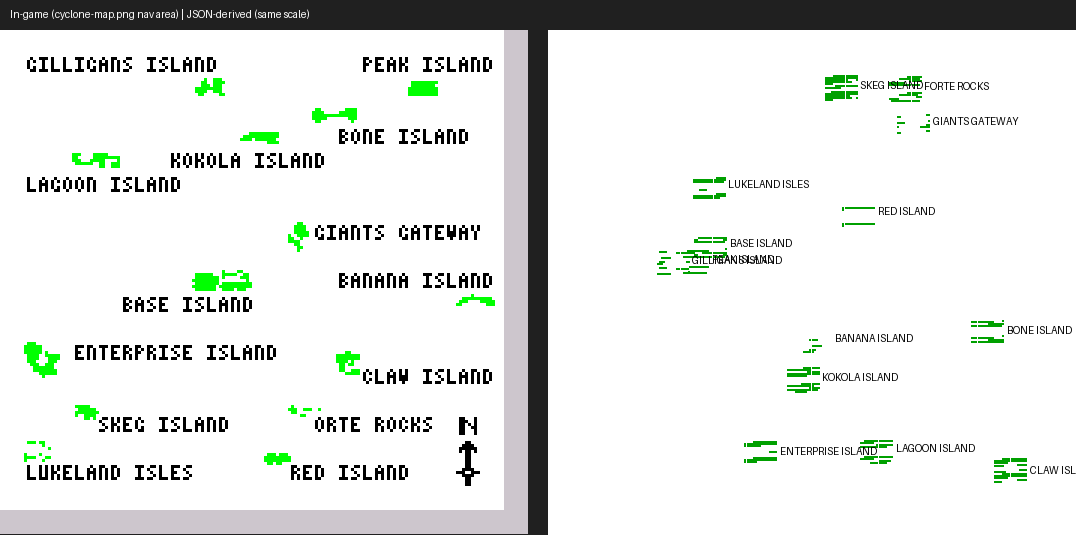
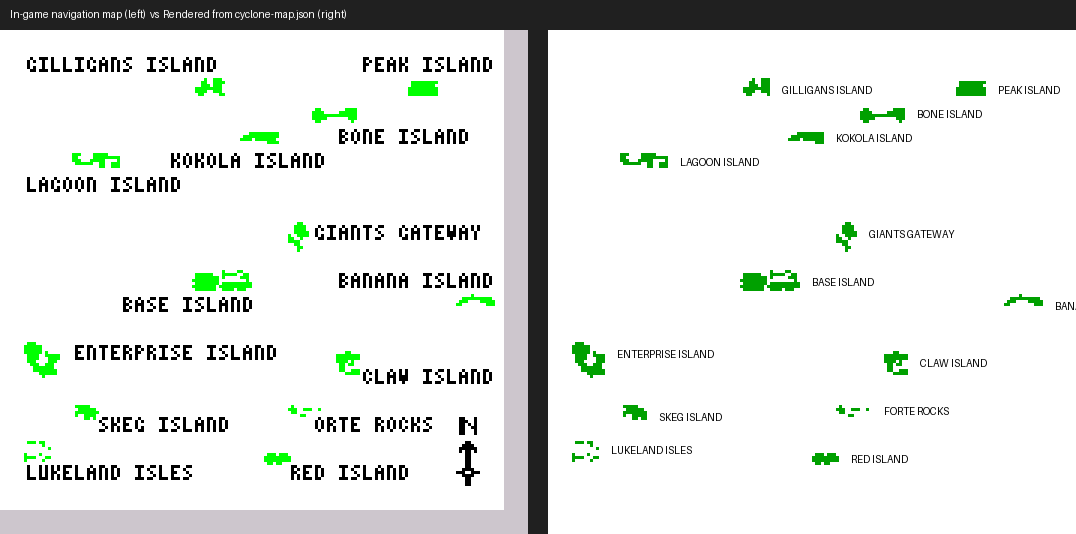
Decode the navigation-map renderer at $8D5D
The nav-map view (images/cyclone-map.png) is drawn by a two-pass walker
over the $F230 master table.  Found via the main-loop dispatch at
$5B71-$5B81: when bit 4 of ($7526) is set, the sequence calls $8D0E
(clear), $8D5D (icons + names), $8E5C (HUD), $8F6A (cursor).

$8D5D's icon-decode loop ($8D7D-$8DA9) reads source bytes from
shape_base + $0102, sampling at stride 4 and packing "byte >= $0F"
into a bitmap.  IX+$0E gives sprite width, IX+$0F sprite height,
and IX+$0C/$0D the destination display-file address.

The 16x16 grids at shape_base hold per-tile OBJECTS (people, palm
trees, fuel pods) for the flight projector at $7777 — they are NOT
the island silhouettes I'd previously assumed.  The nav-map sprites
live one page later (shape_base + $0102) and decode to recognisable
small island outlines.

extract_map.py now emits per-island {navmap_position, navmap_sprite}
alongside the flight-mode object grid.  render_navmap_from_json.py
renders a faithful copy of the in-game nav-map screen from the JSON
alone; updated nav-map-comparison.png shows them side-by-side with
matching island shapes and positions.

cyclone.ctl: relabelled $8D5D as DRAW_NAVMAP, documented the
two-pass structure, the +$0102 sprite source, and the new field
meanings of IX+$0C..+$0F.

Round-trip verified (49152 bytes match).

diff --git a/tools/extract_map.py b/tools/extract_map.py
@@ -7,14 +7,19 @@ any language or engine — no Z80 emulator required at consumption time:
 
   - 14 island records from the master table at $F230
     (type, sub-type, world bounds, altitude bounds, shape pointer, etc.)
-  - per-island 16x16 tile-index grids from each island's +$0A/+$0B base
+  - per-island NAVIGATION-MAP sprite + screen position
+    (decoded by the algorithm at $8D5D-$8DA9 — reads source bytes from
+    shape_base+$0102 at stride 4 with threshold $0F, packs into bitmap)
+  - per-island 16x16 OBJECT layout (people / palm trees / fuel pods at
+    each tile of an island; this is what the flight engine projects via
+    #R$7777, NOT a silhouette of the island shape)
   - the 8x8-pixel glyph font at $FA00 (1536 bytes -> 192 glyphs)
   - the tile attribute table at $FE00 (256 attribute bytes,
     decoded into ink/paper/bright/flash)
 
 Decoding references in cyclone.ctl: the master record schema is documented
-at $F230, the tile renderer is #R$762C, and the world coordinates live at
-($7500)/($7502).  See ISLANDS.md for the human summary.
+at $F230, the tile renderer is #R$762C, the navigation-map renderer is
+$5B71-$5B81 -> $8D5D, and the world coordinates live at ($7500)/($7502).
 
 Usage:
     python3 tools/extract_map.py [SNAPSHOT] [OUTPUT.json]
@@ -73,6 +78,55 @@ def decode_attribute(byte: int) -> dict:
     }
 
 
+def decode_screen_addr(addr: int) -> dict:
+    """Decode a Spectrum display-file address into (col, char_row, y).
+
+    Layout: bit 13 = $4000 base flag; bits 12-11 = y bits 7-6; bits 10-8 =
+    y bits 2-0; bits 7-5 = y bits 5-3; bits 4-0 = x // 8.
+    """
+    col = addr & 0x1F
+    y_top = (addr >> 11) & 0x03   # y[7:6]
+    y_low = (addr >> 8) & 0x07    # y[2:0]
+    y_mid = (addr >> 5) & 0x07    # y[5:3]
+    y = (y_top << 6) | (y_mid << 3) | y_low
+    return {"col": col, "char_row": y // 8, "pixel_y": y, "raw": f"0x{addr:04X}"}
+
+
+def decode_navmap_sprite(ram: bytes, shape_base: int, width: int, height: int) -> list:
+    """Decode an island's nav-map sprite using the algorithm at $8D5D-$8DA9.
+
+    The renderer walks `height` rows.  Each row reads `width` source bytes
+    at stride 4 from `shape_base + $0102`, packing the high-bit of "byte
+    >= $0F" into a bit pattern that becomes the row's display-file bytes.
+    Source rows are spaced by `+$0200` (2 scanlines on a Spectrum, which
+    matches how the renderer advances HL between rows).
+    """
+    def get(addr):
+        a = addr & 0xFFFF
+        return ram[a - 0x4000] if 0x4000 <= a else 0
+
+    src = (shape_base + 0x0102) & 0xFFFF
+    rows = []
+    for row in range(height):
+        row_src = (src + row * 0x0200) & 0xFFFF
+        e = width
+        offset = 0
+        bits = []
+        while e > 0:
+            c = 0
+            b = 8
+            while b > 0 and e > 0:
+                byte = get(row_src + offset)
+                c = ((c << 1) | (1 if byte >= 0x0F else 0)) & 0xFF
+                offset += 4
+                e -= 1
+                b -= 1
+            c = (c << b) & 0xFF
+            bits.append(c)
+        rows.append(bits)
+    return rows
+
+
 def extract(snapshot_path: str) -> dict:
     snap = Snapshot.get(snapshot_path)
     ram = bytes(snap.ram(-1))
@@ -106,6 +160,11 @@ def extract(snapshot_path: str) -> dict:
         tiles = list(at(shape_base, 256))
         grid = [tiles[row * 16 : (row + 1) * 16] for row in range(16)]
 
+        navmap_w = rec[0x0E]
+        navmap_h = rec[0x0F]
+        navmap_sprite = decode_navmap_sprite(ram, shape_base, navmap_w, navmap_h)
+        navmap_sprite_addr = (shape_base + 0x0102) & 0xFFFF
+
         islands.append({
             "index": i,
             "name": ISLAND_NAMES[i],
@@ -119,12 +178,17 @@ def extract(snapshot_path: str) -> dict:
             "altitude": {"z_min": rec[0x06], "z_max": rec[0x07]},
             "secondary_bounds": [rec[0x08], rec[0x09]],
             "shape_base": f"0x{shape_base:04X}",
-            "display_addr": f"0x{display_addr:04X}",
-            "extra_work": [rec[0x0E], rec[0x0F]],
+            "navmap_position": decode_screen_addr(display_addr),
+            "navmap_sprite": {
+                "source_addr": f"0x{navmap_sprite_addr:04X}",
+                "width_cols": navmap_w,
+                "height_rows": navmap_h,
+                "bitmap": navmap_sprite,
+            },
             "name_stream_ptr": f"0x{rec[0x10] | (rec[0x11] << 8):04X}",
             "attribute_high_byte": f"0x{attr_high:02X}",
             "raw_record": [f"0x{b:02X}" for b in rec],
-            "tiles": grid,
+            "object_tiles_at_shape_base": grid,
         })
 
     # Glyph font at $FA00.  Only addresses up to $FFFF are real RAM, so the
@@ -183,12 +247,22 @@ def extract(snapshot_path: str) -> dict:
             {"offset": "+0x07", "field": "z_max"},
             {"offset": "+0x08..+0x09", "field": "secondary_bounds"},
             {"offset": "+0x0A..+0x0B", "field": "shape_base_pointer"},
-            {"offset": "+0x0C..+0x0D", "field": "display_file_addr"},
-            {"offset": "+0x0E..+0x0F", "field": "extra_work"},
+            {"offset": "+0x0C..+0x0D", "field": "navmap_screen_addr (display-file address where this island's icon is drawn on the navigation-map screen)"},
+            {"offset": "+0x0E", "field": "navmap_sprite_width (columns for $8D5D inner loop)"},
+            {"offset": "+0x0F", "field": "navmap_sprite_height (rows for $8D5D outer loop)"},
             {"offset": "+0x10..+0x11", "field": "name_stream_ptr"},
             {"offset": "+0x12", "field": "attribute_high_byte"},
             {"offset": "+0x13", "field": "record_terminator"},
         ],
+        "navmap_renderer": {
+            "trigger": "main loop $5B71-$5B81 (when bit 4 of ($7526) is set)",
+            "walker": "$8D5D — walks $F230 records emitting both sprite and name per island",
+            "sprite_decoder": "$8D7D-$8DA9 — reads source bytes at stride 4 with threshold $0F, packs into display-file bitmap",
+            "sprite_source_offset": "shape_base + 0x0102",
+            "row_stride_bytes": 0x0200,
+            "byte_threshold": 0x0F,
+            "column_stride": 4,
+        },
         "islands": islands,
         "tile_glyphs": glyphs,
         "tile_attributes": attributes,

diff --git a/tools/render_navmap_from_json.py b/tools/render_navmap_from_json.py
@@ -1,0 +1,78 @@
+#!/usr/bin/env python3
+"""Render Cyclone's navigation-map screen from cyclone-map.json alone.
+
+Uses the per-island nav-map sprite + screen position decoded by
+extract_map.py (via the algorithm at $8D5D-$8DA9).  This produces a
+faithful reproduction of the in-game navigation map screen, suitable
+for direct comparison with images/cyclone-map.png.
+
+Usage:
+    python3 tools/render_navmap_from_json.py [INPUT.json] [OUTPUT.png]
+"""
+import json
+import sys
+from pathlib import Path
+
+from PIL import Image, ImageDraw
+
+
+# Spectrum playfield is 32 cols x 24 rows of 8x8 character cells.
+# The navigation-map area lives in the left 23 cols x 22 rows.
+SCALE = 3  # display 3x scale (matches sna2img.py default)
+
+
+def render(json_path: str, out_path: str) -> None:
+    data = json.loads(Path(json_path).read_text())
+
+    # Native Spectrum screen 256x192.
+    NW, NH = 256, 192
+    img = Image.new("RGB", (NW * SCALE, NH * SCALE), (255, 255, 255))
+    draw = ImageDraw.Draw(img)
+
+    INK = (0, 160, 0)  # green ink, matches the in-game nav map
+    LABEL = (0, 0, 0)
+
+    for isl in data["islands"]:
+        sprite = isl["navmap_sprite"]["bitmap"]
+        pos = isl["navmap_position"]
+
+        # Top-left pixel of the sprite on the native screen
+        x0 = pos["col"] * 8
+        y0 = pos["pixel_y"]
+
+        # Each decoded row is one display-file scanline.  The renderer
+        # advances the source pointer by +$0200 (2 scanlines) between
+        # rows, but the destination only advances by 1 scanline per row.
+        for row_idx, row_bytes in enumerate(sprite):
+            y = y0 + row_idx
+            x = x0
+            for byte in row_bytes:
+                for bit in range(8):
+                    if byte & (0x80 >> bit):
+                        px = (x + bit) * SCALE
+                        py = y * SCALE
+                        draw.rectangle(
+                            [px, py, px + SCALE - 1, py + SCALE - 1], fill=INK
+                        )
+                x += 8
+
+        # Name label to the right of the sprite (matches in-game layout)
+        label_x = (x0 + isl["navmap_sprite"]["width_cols"] + 4) * SCALE
+        label_y = (y0 + 2) * SCALE
+        draw.text((label_x, label_y), isl["name"], fill=LABEL)
+
+    # Frame and title
+    draw.rectangle([0, 0, NW * SCALE - 1, NH * SCALE - 1],
+                   outline=(0, 0, 0), width=2)
+    draw.text((4, 4), "Cyclone navigation map — rendered from cyclone-map.json",
+              fill=(0, 0, 0))
+
+    img.save(out_path)
+    print(f"Wrote {out_path} ({NW * SCALE}x{NH * SCALE})")
+
+
+if __name__ == "__main__":
+    src = sys.argv[1] if len(sys.argv) > 1 else "build/cyclone-map.json"
+    out = sys.argv[2] if len(sys.argv) > 2 else "images/cyclone-navmap-fromjson.png"
+    Path(out).parent.mkdir(parents=True, exist_ok=True)
+    render(src, out)
